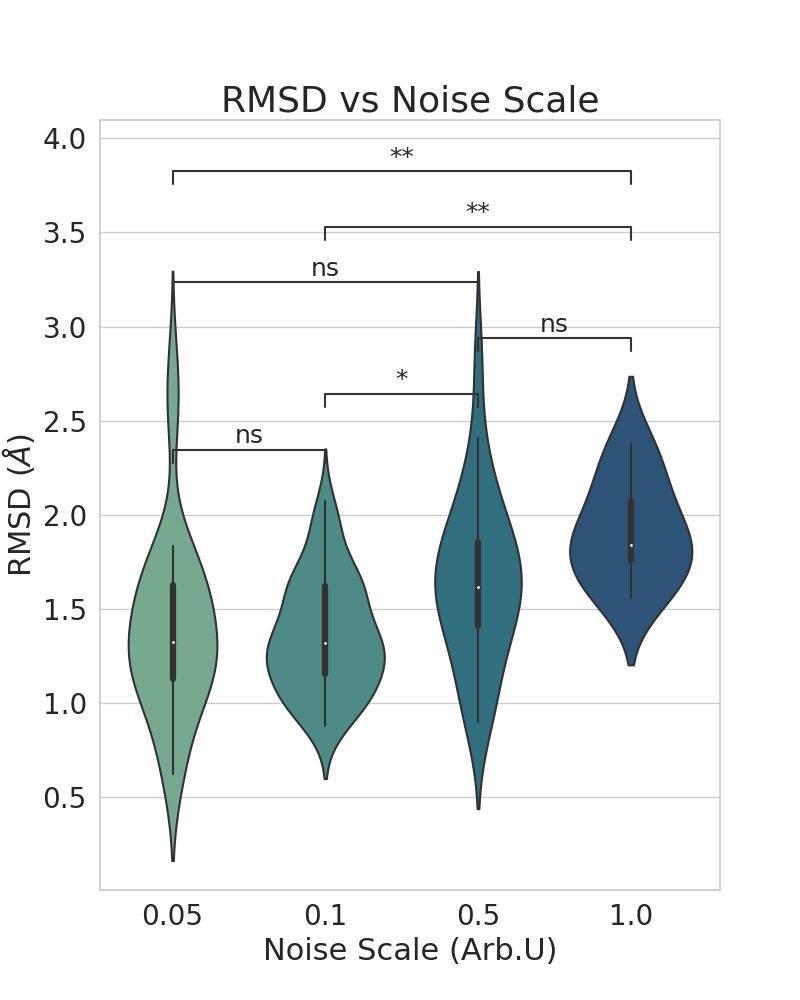
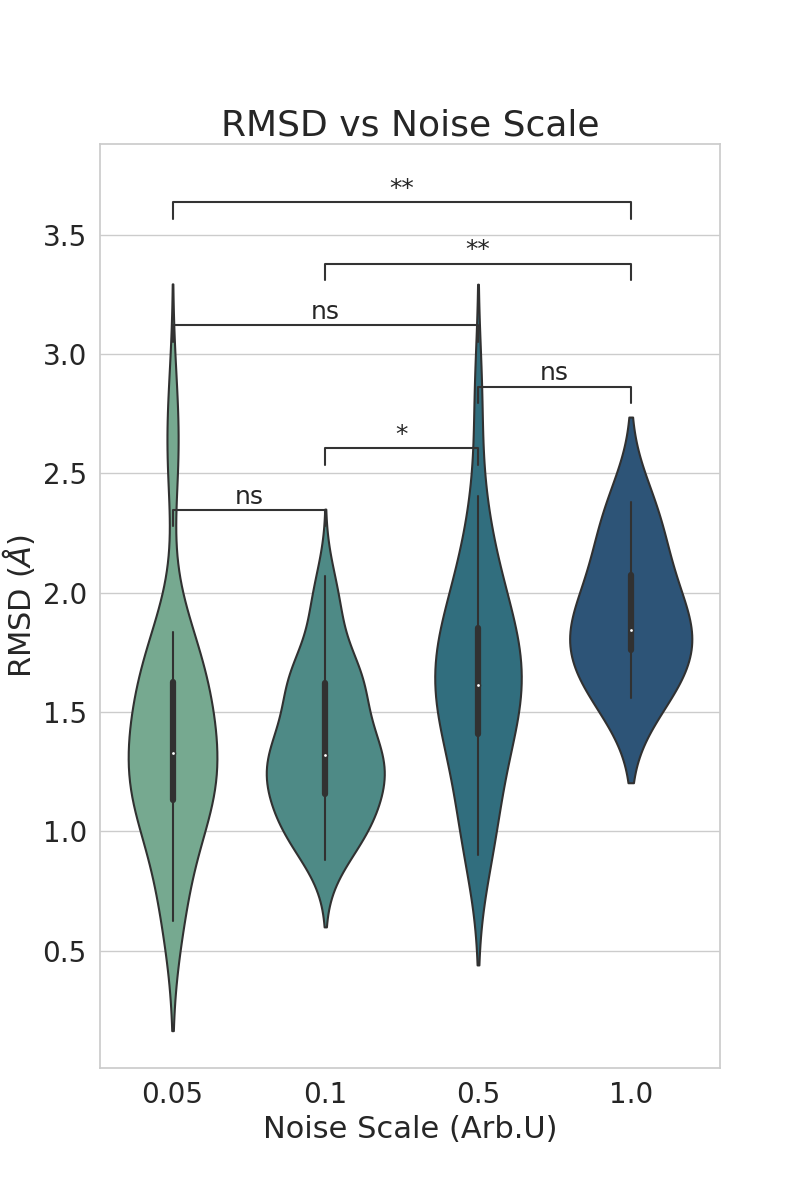
Sorry :( I am using GitHub as Google Drive so a lot of pointless commits for everybody else

diff --git a/FIGURES/Noise_Scale_figures.py b/FIGURES/Noise_Scale_figures.py
@@ -64,7 +64,7 @@ df_filtered_112.loc[df_filtered_112['Noise'] == '01', 'Noise'] = 0.1
 df_filtered_112.loc[df_filtered_112['Noise'] == '05', 'Noise'] = 0.5
 df_filtered_112.loc[df_filtered_112['Noise'] == '1', 'Noise'] = 1.0
 
-plt.figure(figsize=(12,10))
+plt.figure(figsize=(10,12))
 sns.set_theme(style='whitegrid')
 sns.pointplot(data=df_filtered_112, x='Noise', y='RMSD', hue= 'Noise', palette='crest', s=100,capsize=0.2, ci=95 )
 plt.title('RMSD vs Noise Scale', fontsize=26)
@@ -85,7 +85,7 @@ slope, intercept, r_value, p_value, std_err = scipy.stats.linregress(X, y)
 
 print(' PEARSON CORRELATION COEFFICIENT VALUE:', r_value)
 
-plt.figure(figsize=(8,10))
+plt.figure(figsize=(8,12))
 violinplot=sns.violinplot(data=df_filtered_112, x='Noise', y='RMSD', palette='crest')
 annotator=Annotator(
     violinplot,
